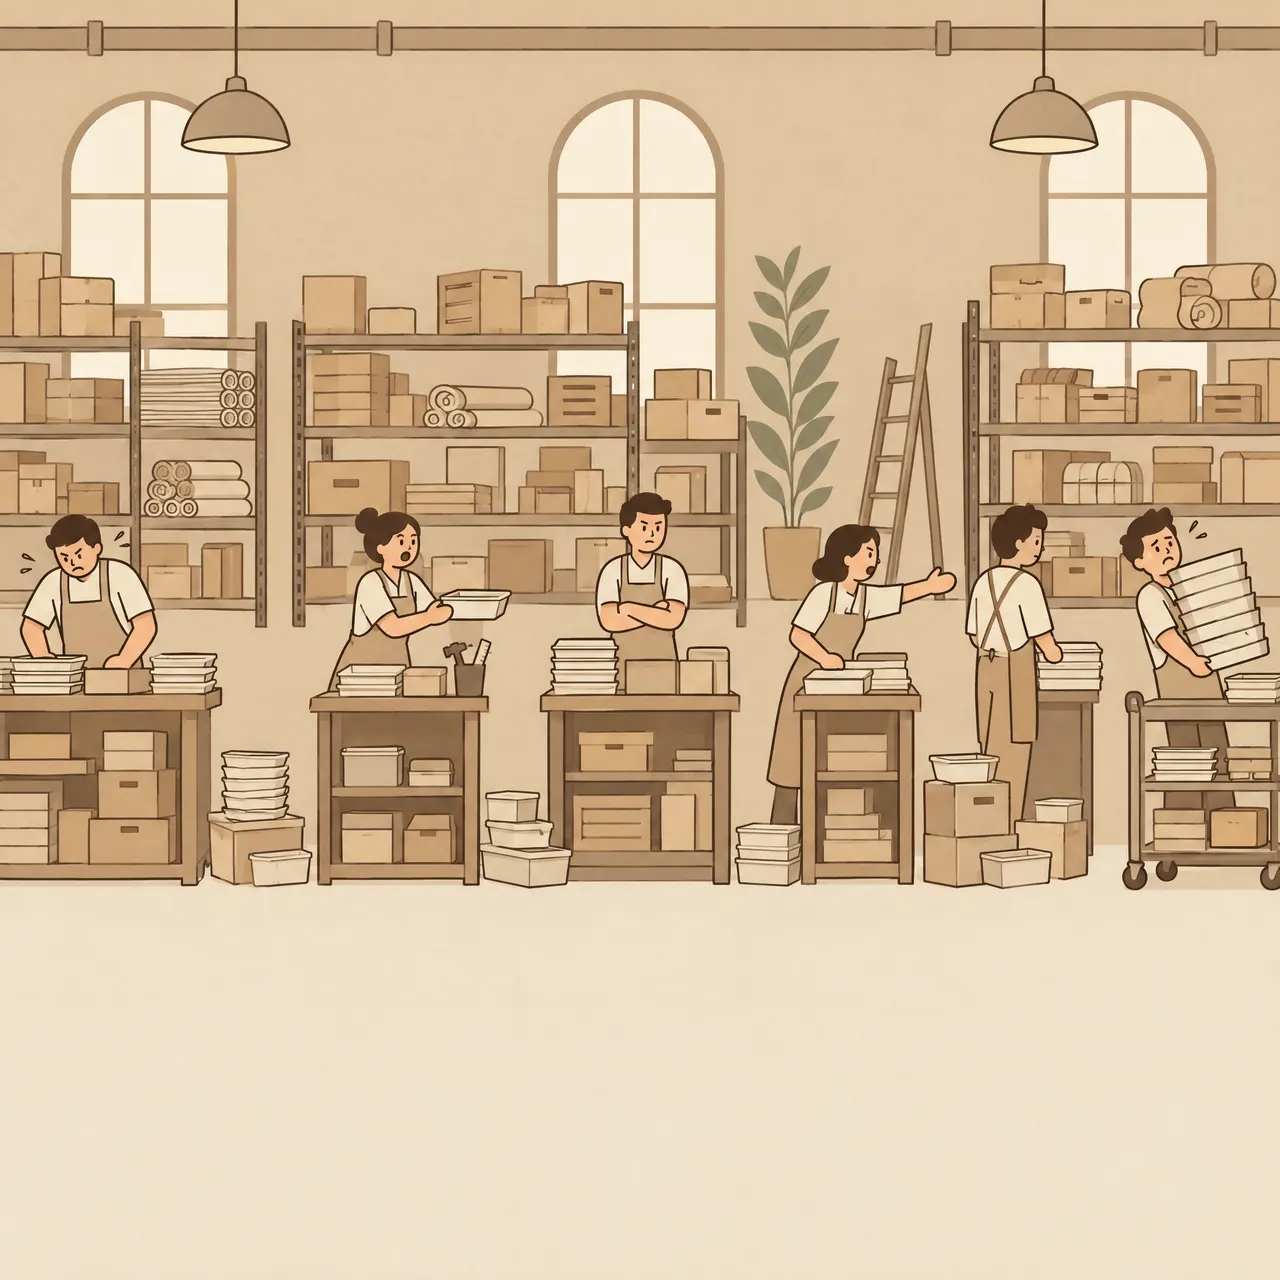
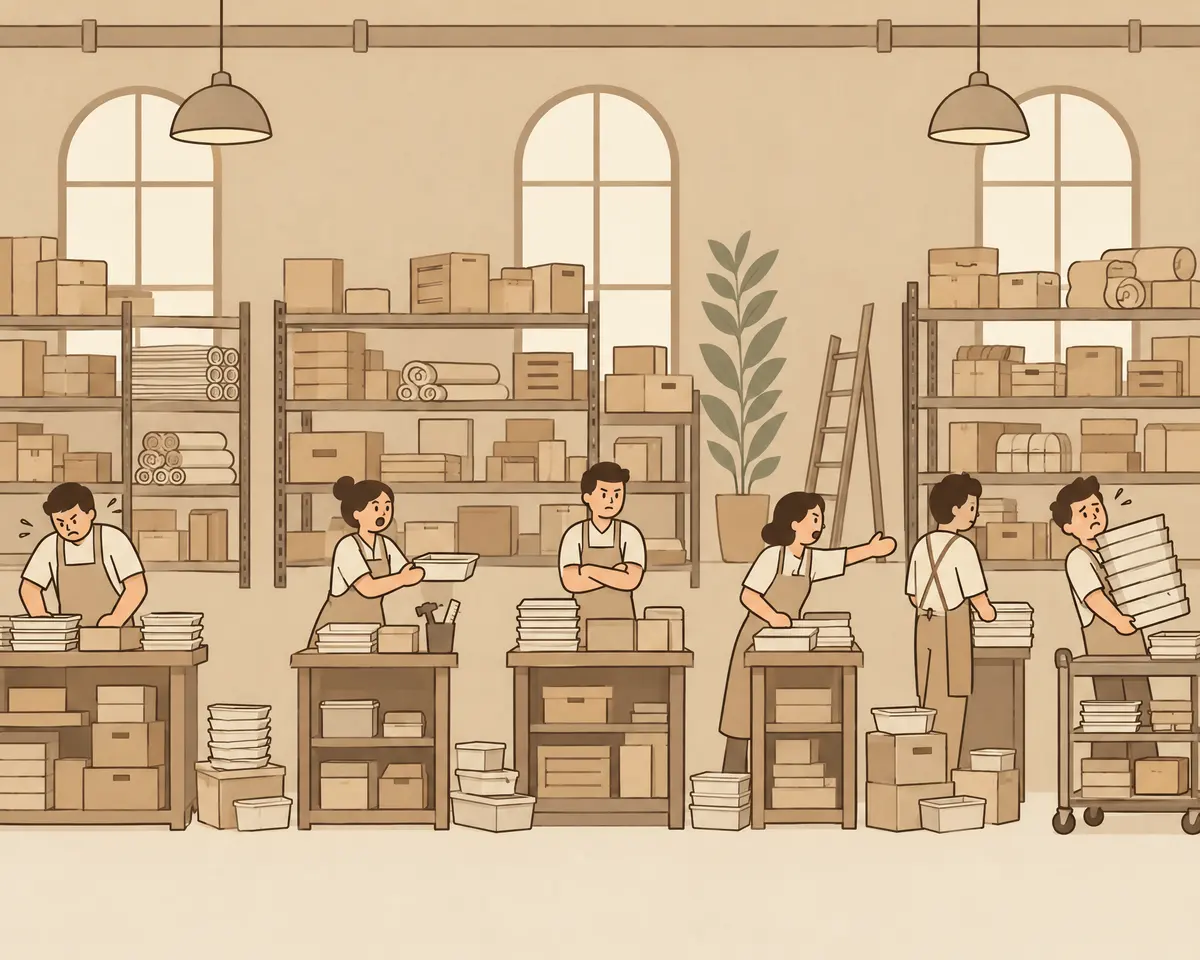
Osiem kadrow w jednej hali: referencja obrazu zamiast wymyslonego zamka
Wszystkie osiem scen ma teraz wlasny kadr. Jedna hala, jedna paleta,
jedna kreska, 610 KB lacznie przy budzecie wizyty 2500 KB.

DROGA DO TEGO BYLA POUCZAJACA I WARTO JA ZAPISAC.

Pierwsza runda krytyki dala dziewiec blokad. Najcenniejsza: zaden prompt
nie odwolywal sie do zatwierdzonego kadru, a sam tekst, chocby identyczny
co do znaku, nie utrzyma jednej hali. Model nie widzi pozostalych siedmiu
ujec. Mielismy na to mechanizm, z ktorego nie korzystalem: image-references.

Napisalem wiec ZAMEK NA HALE: trzy okna, trzy lampy, jedna rura, jedna
drabina, jedna roslina, plus drabine wartosci. Druga runda krytyki podbila
liczbe blokad z dziewieciu do szesnastu i wskazala dlaczego: zamek klocil
sie z obrazem, ktory sam podawalem jako wzorzec. Zadal trzech lamp, a na
kadrze sa dwie. Zadal okien piaskowych, a sa prawie biale. Wymagal rosliny
szalwiowej i dwa akapity dalej zakazywal jakiegokolwiek koloru.

Napisalem ten zamek z TEKSTU poprzedniego promptu, nie z OBRAZU, ktory
zostal zatwierdzony. Rosnaca liczba blokad byla sygnalem, ze specyfikacja
walczy sama ze soba.

Rozwiazanie bylo odwrotne do tego, co robilem: mniej regul, nie wiecej.
Zamek i drabina wylecialy w calosci, a na ich miejsce weszlo jedno zdanie
mowiace, ze referencja jest autorytetem. Osiem kadrow wyszlo spojnych.

Kadry sa przycinane przy kodowaniu o dolne 20 procent: pusta podloga byla
zaprojektowana pod tekst w ukladzie pelnoekranowym, a w kolumnie medialnej
jest juz tylko dziura.
[…]

diff --git a/site/src/presentation/sceneMedia.ts b/site/src/presentation/sceneMedia.ts
@@ -94,36 +94,68 @@ export function videoSources(asset: SceneVideoAsset): { src: string; type: strin
 /** Co leży pod którą sceną. Dziś: komplet na materiale zastępczym. */
 export const SCENE_MEDIA: Record<SceneId, SceneMediaEntry> = {
   /* 1. Hak: firma urosła, proces został ten sam. Docelowo S1. */
-  hook: { id: "hook", fallback: "gradient" },
+  hook: {
+    id: "hook",
+    still: "/media/presentation/scene-hook-v1.webp",
+    fallback: "shot",
+  },
 
   /* 2. Przekazanie: praca stoi między ludźmi. Docelowo S2.
      Siatka komórek w tle zastępczym włącza się propsem `grid` na
      `SceneFallbackMedia`, nie tutaj: to decyzja wizualna sceny, nie materiału. */
-  handover: { id: "handover", still: "/media/presentation/scene-handover-v1.webp", fallback: "shot" },
+  handover: {
+    id: "handover",
+    still: "/media/presentation/scene-handover-v1.webp",
+    fallback: "shot",
+  },
 
   /* 3. Koszt czasu: zamknięcie miesiąca. Docelowo S3.
      Scena ma też własny wykres budujący się przy przewijaniu (SceneTime),
      więc materiał tła musi być SPOKOJNY — dwa ruchy naraz się zabijają. */
-  time: { id: "time", fallback: "gradient" },
+  time: {
+    id: "time",
+    still: "/media/presentation/scene-time-v1.webp",
+    fallback: "shot",
+  },
 
   /* 4. Koszt pieniędzy: rozbicie działania na ekranie. Docelowo S4. */
-  cost: { id: "cost", fallback: "gradient" },
+  cost: {
+    id: "cost",
+    still: "/media/presentation/scene-cost-v1.webp",
+    fallback: "shot",
+  },
 
   /* 5. Zwrot: rozsypane elementy składają się w jeden układ. Docelowo S5.
      To jest oś całego filmu i jedyna scena z mocnym uderzeniem w materiale
      (scenariusz §4.5, S5) — reszta scen ma być spokojna, żeby ta jedna zagrała. */
-  turn: { id: "turn", fallback: "gradient" },
+  turn: {
+    id: "turn",
+    still: "/media/presentation/scene-turn-v1.webp",
+    fallback: "shot",
+  },
 
   /* 6. Co potrafimy: sześć rodzajów pracy. Docelowo S6.
      UWAGA: to już NIE jest scena ze zrzutami narzędzi (wersja 2 scenariusza).
      Materiał ma pokazywać rodzaje pracy, nie nasze interfejsy. */
-  craft: { id: "craft", fallback: "gradient" },
+  craft: {
+    id: "craft",
+    still: "/media/presentation/scene-craft-v1.webp",
+    fallback: "shot",
+  },
 
   /* 7. Efekt: plątanina rozplątuje się w równoległe linie. Docelowo S7. */
-  outcome: { id: "outcome", fallback: "gradient" },
+  outcome: {
+    id: "outcome",
+    still: "/media/presentation/scene-outcome-v1.webp",
+    fallback: "shot",
+  },
 
   /* 8. Kontakt: scena pustoszeje, zostaje jedna karta. Docelowo S8. */
-  contact: { id: "contact", fallback: "gradient" },
+  contact: {
+    id: "contact",
+    still: "/media/presentation/scene-contact-v1.webp",
+    fallback: "shot",
+  },
 };
 
 /** Materiał dla sceny; zawsze zwraca wpis, nigdy `undefined`. */
